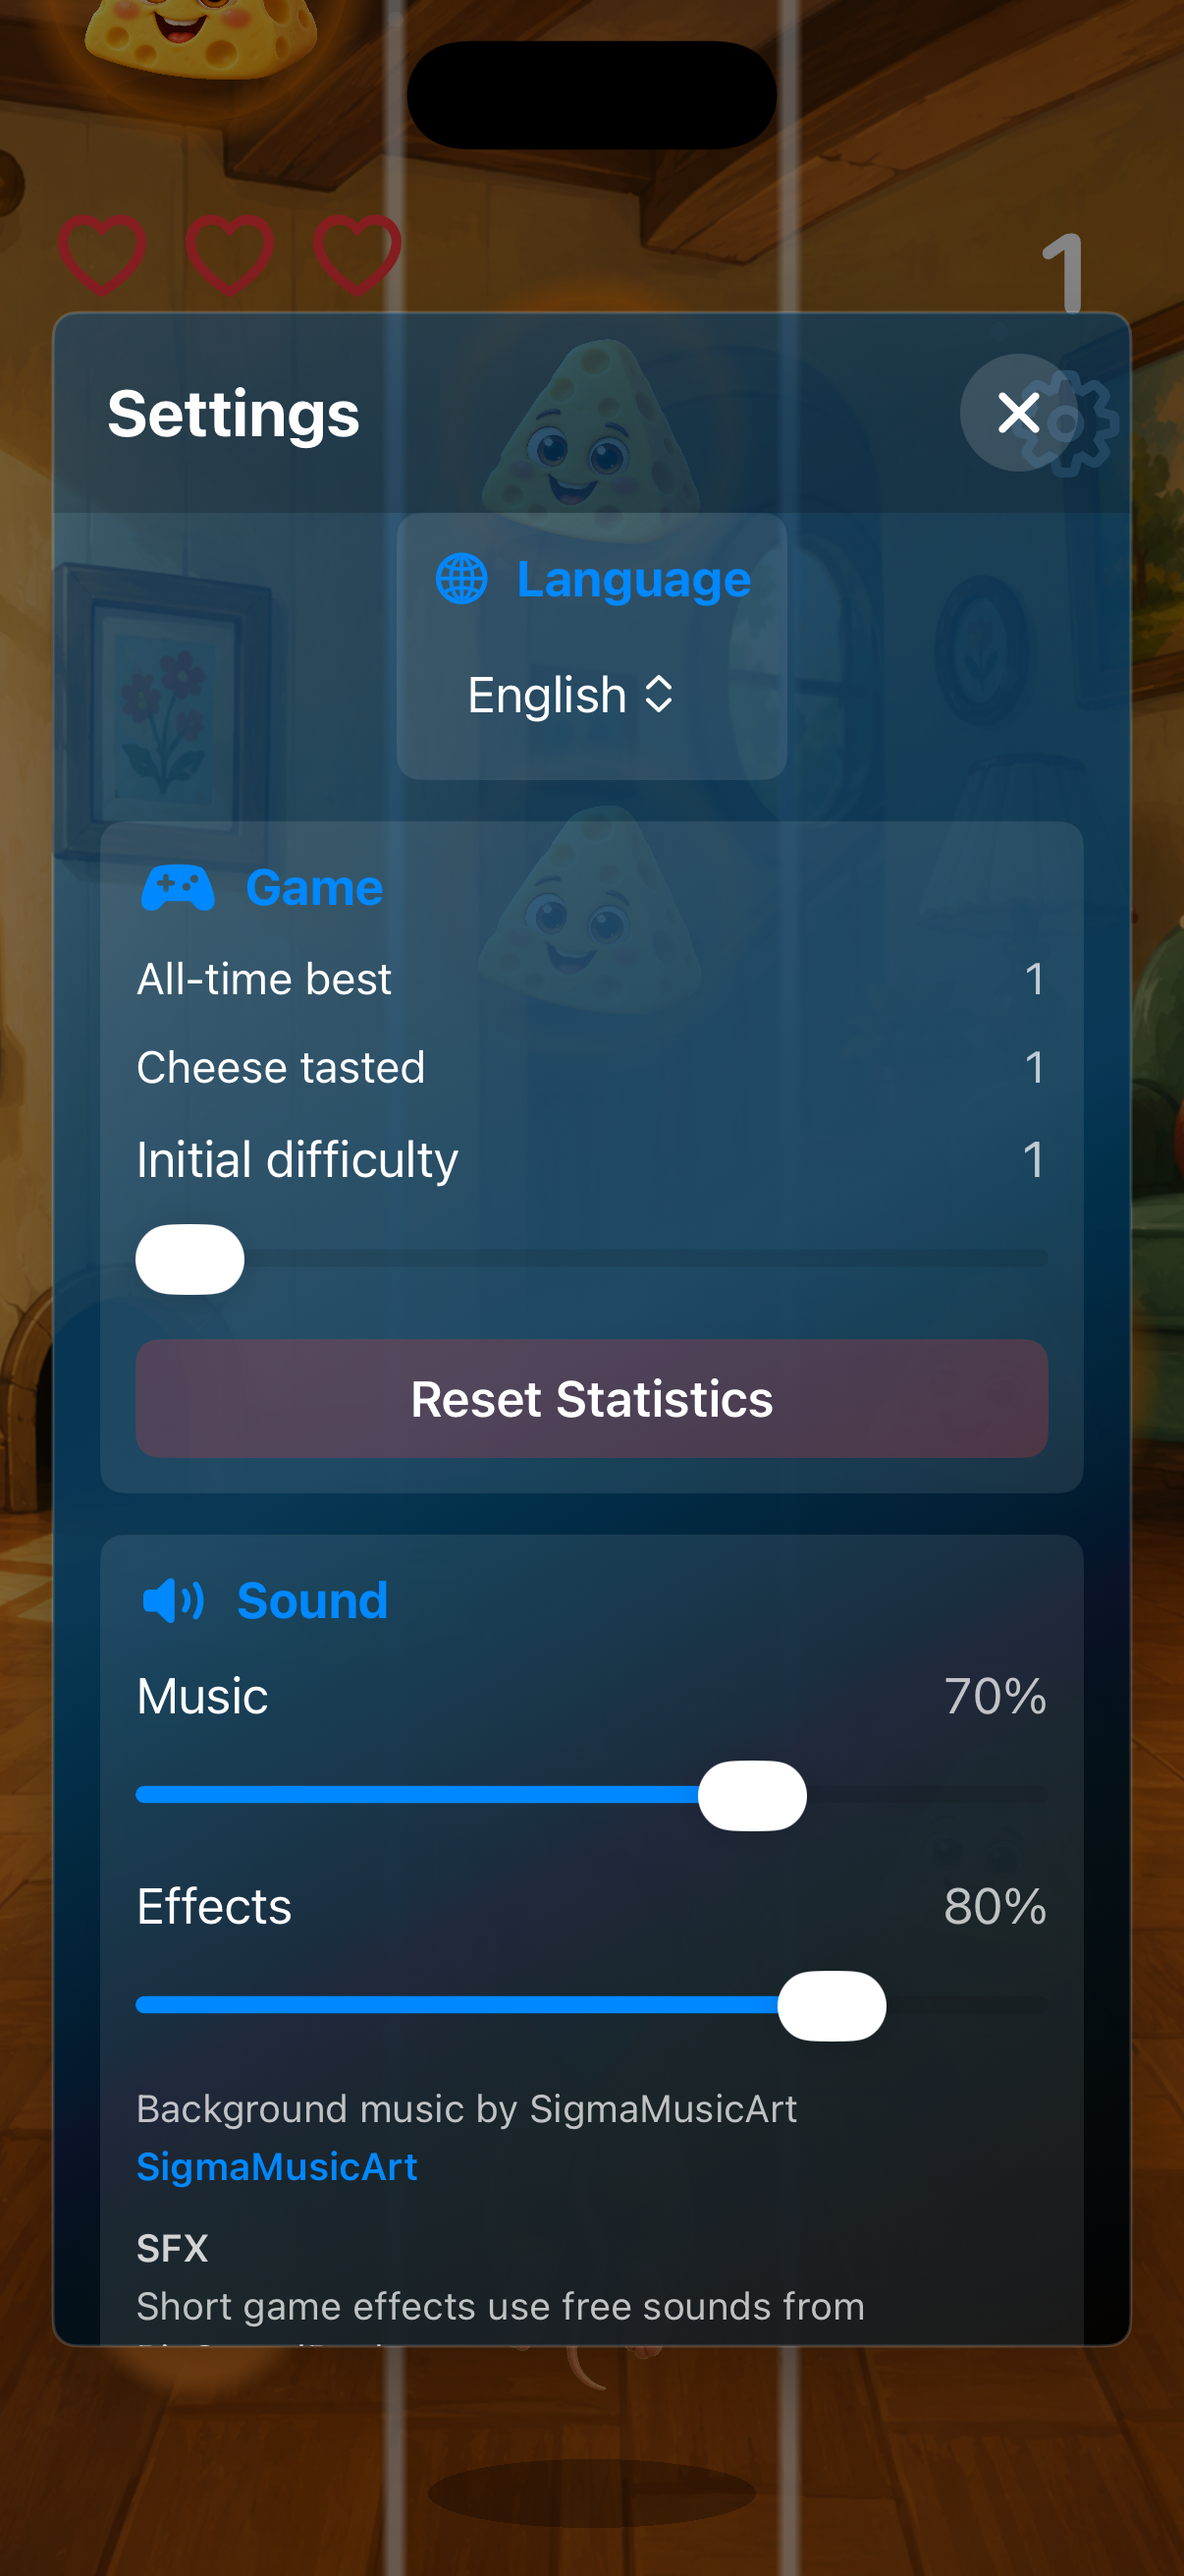
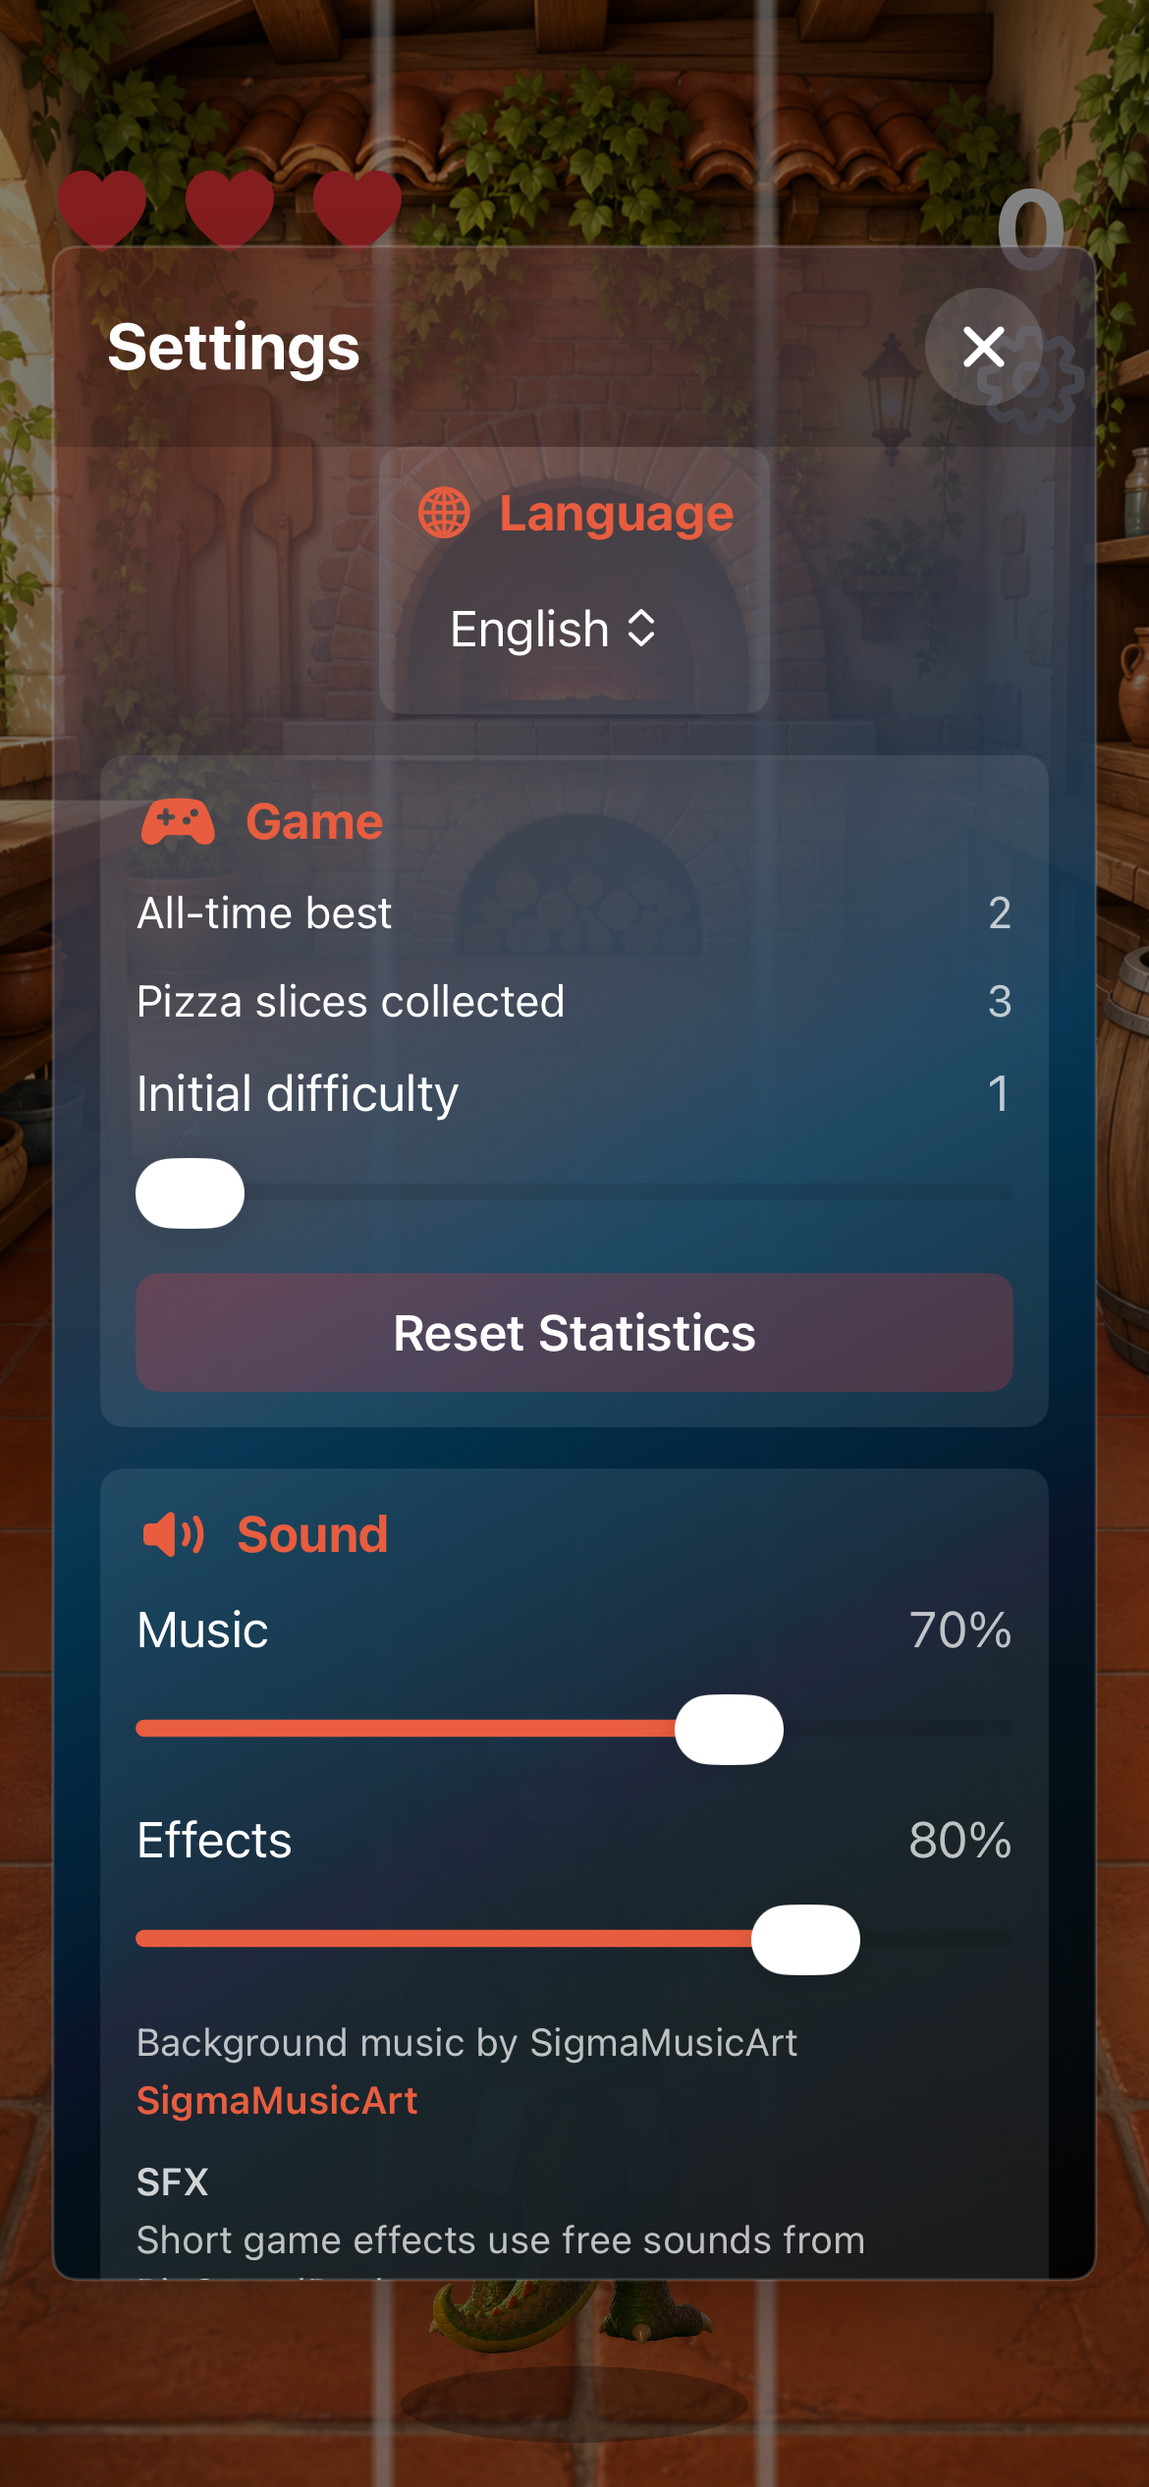
Refresh Simulator screenshots

diff --git a/index.html b/index.html
@@ -96,9 +96,9 @@
           <p>Пепероні, гаряча піца, три доріжки та зручні налаштування — саме так Дракончик Пепероні виглядає на iPhone.</p>
         </div>
         <div class="phone-gallery" aria-label="Скриншоти Дракончик Пепероні">
-          <figure class="phone phone-tall"><div class="phone-screen"><img src="images/screenshot-splash.png?v=20260727-2" alt="Заставка Дракончик Пепероні з Пепероні" loading="lazy"></div><figcaption>Знайомство з Пепероні</figcaption></figure>
-          <figure class="phone phone-center"><div class="phone-screen"><img src="images/screenshot-gameplay.png?v=20260727-3" alt="Ігровий раунд із шматочками піци на трьох доріжках" loading="lazy"></div><figcaption>Збирайте піцу</figcaption></figure>
-          <figure class="phone phone-tall"><div class="phone-screen"><img src="images/screenshot-settings.png?v=20260727-3" alt="" loading="lazy"></div><figcaption>Усе під контролем</figcaption></figure>
+          <figure class="phone phone-tall"><div class="phone-screen"><img src="images/screenshot-splash.png?v=20260727-4" alt="Заставка Дракончик Пепероні з Пепероні" loading="lazy"></div><figcaption>Знайомство з Пепероні</figcaption></figure>
+          <figure class="phone phone-center"><div class="phone-screen"><img src="images/screenshot-gameplay.png?v=20260727-4" alt="Ігровий раунд із шматочками піци на трьох доріжках" loading="lazy"></div><figcaption>Збирайте піцу</figcaption></figure>
+          <figure class="phone phone-tall"><div class="phone-screen"><img src="images/screenshot-settings.png?v=20260727-4" alt="" loading="lazy"></div><figcaption>Усе під контролем</figcaption></figure>
         </div>
       </div>
     </section>
